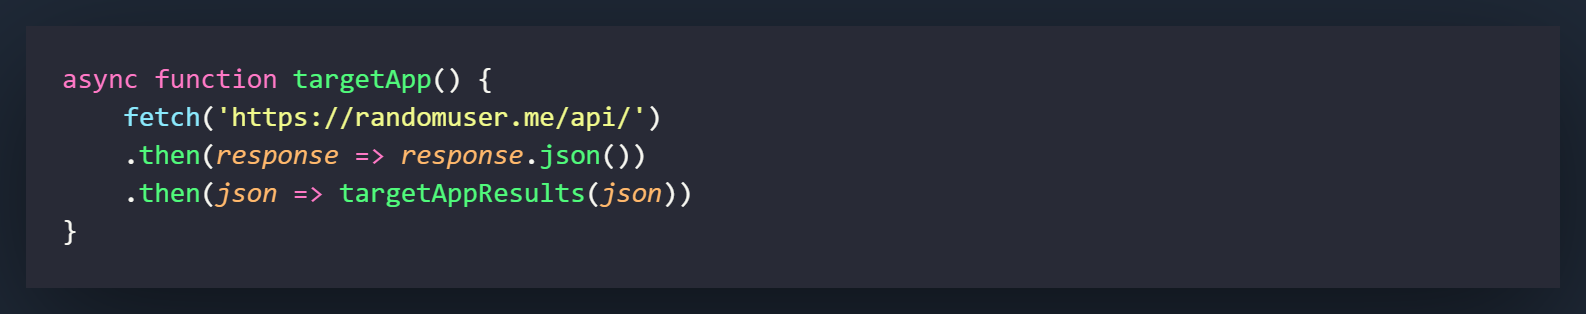
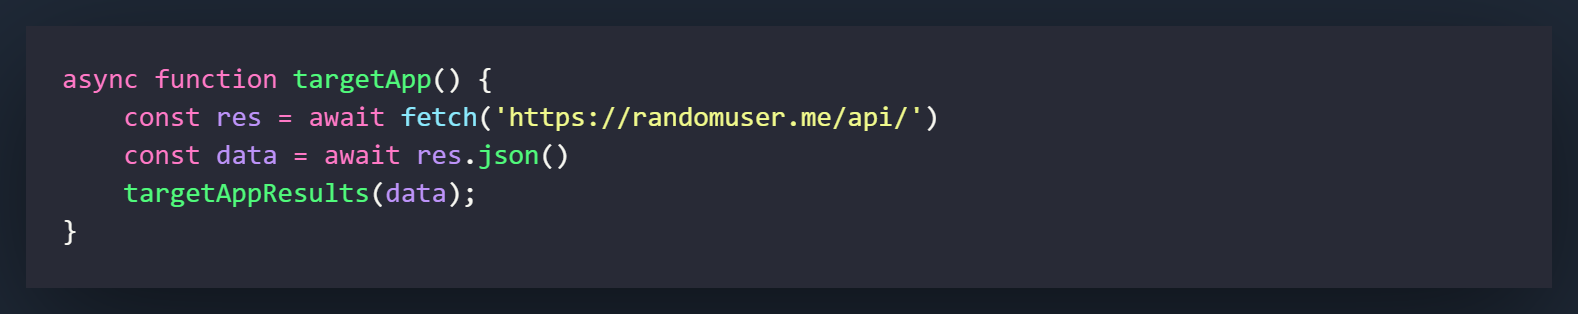
Documentation for API part 3

diff --git a/pages/buildtargetapppart3.html b/pages/buildtargetapppart3.html
@@ -149,36 +149,46 @@
                         <div class="ide-mockup">
                             <img src="/img/targetapppart3/target-app-part-3-html-001.png">
                         </div>             
-
+                        <p>There is only 1 thing we need to add to the HTML and that is a div with the id and class of <span class="ide-purple">target-found-container</span>. It can be placed right after the <span class="ide-purple">target-spinner-container</span> in the HTML.</p>
+                        <p>This div will appear when the <span class="ide-purple">target-spinner-container</span> is removed.</p>
 
                     </div>
                     <div class="project-css" id="project-css">
                       
                         <div class="ide-mockup">
-                            <img src="/img/targetapppart2/target-app-css-001.png">
+                            <img src="/img/targetapppart3/target-app-part-3-css-001.png">
                         </div>
+                        <p>The CSS for this part of the project is very similar to what we did in the spinner section. The class of <span class="ide-purple">.target-found-container</span> will be used for positioning and placing the div before it is called. The main attributes being the z-index and opacity. The transition for opacity is what will cause the fade in effect to play out over 1.5 seconds.</p>
+                        <p>When <span class="ide-purple">.active</span> is added to the <span class="ide-purple">.target-found-container</span> class, it will change the z-index and opacity causing it to appear.</p>
                         <div class="ide-mockup">
-                            <img src="/img/targetapppart2/target-app-css-002.png">
+                            <img src="/img/targetapppart3/target-app-part-3-css-002.png">
                         </div>
-                        <div class="ide-mockup">
-                            <img src="/img/targetapppart2/target-app-css-003.png">
-                        </div>
-           
-                      
+                        <p>These 2 settings are basically used for how the image will appear on the screen and how the paragraph elements look when they are filled out with the API information.</p>                      
                     </div>
                     <div class="project-javascript" id="project-javascript">
                      <div class="ide-mockup">
                          <img src="/img/targetapppart3/target-app-part-3-javascript-001.png">
                      </div>
+                    <p>To make the API call to the Random User app we are going to use the async/await method. I feel it is probably the most effective way to do this without adding on any external libraries. As you get more comfortable with APIs, you will find many different methods to make calls and in most cases, you will have to use different ways (headers) to get to the information.</p>
+                    <p>With this being a very simple API to work with, I do recommend checking out the actual <a href="https://randomuser.me/documentation"><span class="ide-green">documentation</span></a> to get more comfortable with it.</p>
                      <div class="ide-mockup">
                          <img src="/img/targetapppart3/target-app-part-3-javascript-002.png">
                      </div>
+                     <p>After getting the initial call set up, try to play around with the API a little bit. Use the above settings with console.log and see what returns. These are all of the things you have access to, and as you become more used to using APIs, you will find many more ways to use this information. For this project, I am only adding the first result [0] but you can make calls for multiple users, specific users, etc.</p>
                      <div class="ide-mockup">
                          <img src="/img/targetapppart3/target-app-part-3-javascript-003.png">
                      </div>
+                     <p>Now that we have the API call set up, let's move the location of the <span class="ide-purple">targetApp( )</span> call inside of the second setTimeout method. This will allow the search to play out before the call is made, preventing any overlap of the divs.</p>
                      <div class="ide-mockup">
                          <img src="/img/targetapppart3/target-app-part-3-javascript-004.png">
                      </div>
+                     <p>This is where we will create the main function of the whole project, using the results returned from the API and using that information to fill out our results page in our app.</p>
+                     <p>The first line is the creation of the function and you may notice that we are passing a parameter into it <span class="ide-purple">(target)</span>. If you look at the last line of the API call function (first part of this JS section), you will notice that <span class="ide-purple">targetAppResults</span> has a <span class="ide-purple">data</span> parameter passed in. That's exactly what (target) is, just under a different name. We are basically taking the information we got from the <span class="ide-purple">data</span> and bringing it with us into the <span class="ide-purple">targetAppResults</span> function.</p>
+                     <p>Now we will create a variable for the <span class="ide-purple">target-found-container</span> called <span class="ide-purple">targetFoundDiv</span>. This is div where the information will be populated.</p>
+                     <p>The next line can be a little tricky to understand, but when it clicks it makes perfect sense. All this <span class="ide-purple">targetInfo</span> variable is, is basically a shortcut to get to the information we need. Instead of typing out <span class="ide-purple">target.results[0].name.first</span> to get the persons first name, we are merely assigning the first part of the call to <span class="ide-purple">targetInfo</span>. So now we would only have to type in <span class="ide-purple">targetInfo.name.first</span>. They would both work the same but this ends up looking nicer and a little more organized.</p>
+                     <p>For the next 5 variables we are going to pull out information from the data that the API returned on the call. This will give us the random person's firstName, lastName, photo, addressNumber, streetNumber, and age.</p>
+                     <p>This following IF statement is me making an adjustment to what the API was returning. The API has people's ages set really high in some cases when the person's photo looks much younger. All I did here was -10 years if the person was aged over 50, and 20 years if the person was over 70. It definitely can still be tweaked but I just wanted to show you that you can still change this data if you would like.</p>
+                     <p>The next variable is the hiring cost in BitCoin of the developer that you searched. This is not returned from the API and as you can see, I just used a Math.random function to get a random number. I console.log'd what that number would be to fixed decimal place of 4 to bring it in line with actual BitCoin values.</p>
                      <div class="ide-mockup">
                          <img src="/img/targetapppart3/target-app-part-3-javascript-005.png">
                      </div>

diff --git a/javascript/smartphone7.js b/javascript/smartphone7.js
@@ -286,9 +286,9 @@ function digitalClockApp() {
 }
 
 async function targetApp() {
-    fetch('https://randomuser.me/api/')
-    .then(response => response.json())
-    .then(json => targetAppResults(json))
+    const res = await fetch('https://randomuser.me/api/')
+    const data = await res.json()
+    targetAppResults(data);
 }
 
 function targetAppResults(target) {
